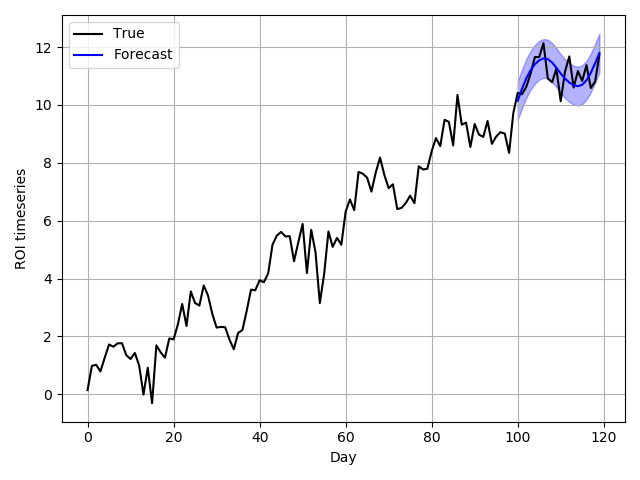
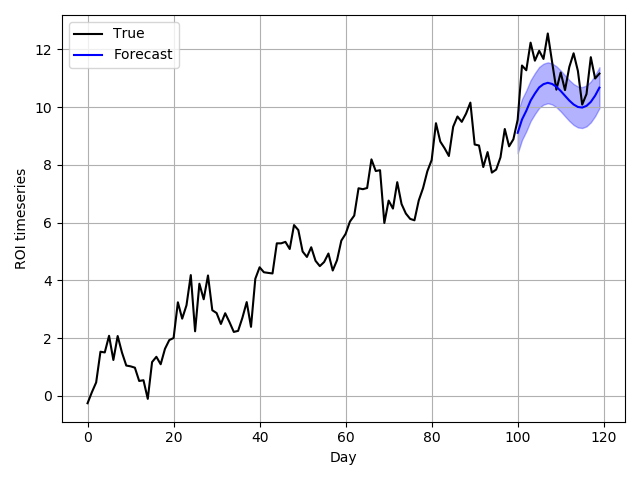
more work added to auto parameter greedy selector. Almost done

Changed region(s): [[0.0625, 0.0625, 0.9688, 0.8438], [0.0625, 0.3125, 0.0938, 0.375], [0.0625, 0.0938, 0.0938, 0.125]]

diff --git a/divinity/__init__.py b/divinity/__init__.py
@@ -251,9 +251,11 @@ class divinity:
                                                                      gcv_mode=None,
                                                                      store_cv_values=False),
                  residual_model = arima_model.ARIMA,
+                 optimise_trend_season_features = True,
                  residual_model_kwargs = {'order':(2,0,2),'exog':None},
                  residual_model_fit_kwargs = {'trend':'nc', 'disp':0}):
         self.features = None
+        self.input_features = None
         self._Ntot = None
         self._N = None
         self._chosen_features = None
@@ -268,27 +270,30 @@ class divinity:
         required forecast
         :return:
         '''
-        seasonality = gen_season(N, periods=self.seasonal_periods, sine_amplitudes=None, cosine_amplitudes=None)
-        trend = gen_trend(N, coef=self.trend_order, amplitudes=None)
-        self.features = pd.concat([trend['features'], seasonality['features']], axis=1)
+        #seasonality = gen_season(N, periods=self.seasonal_periods, sine_amplitudes=None, cosine_amplitudes=None)
+        #trend = gen_trend(N, coef=self.trend_order, amplitudes=None)
+        #self.features = pd.concat([trend['features'], seasonality['features']], axis=1)
+        trend_seasonality = gen_fake(N, max(self.trend_order),
+                 trend_amplitudes=None,
+                 seasonal_periods = self.seasonal_periods,
+                 seasonal_amplitudes_sine = None,
+                 seasonal_amplitudes_cosine = None,
+                 normalize='0to1')
+        self.features = trend_seasonality['features']
+        self.input_features = self.features.copy()
 
-    def _auto_feature_select(self,X, y, training_fraction = 0.8, model = sklearn.linear_model.LinearRegression(fit_intercept=False)):
+    def _auto_feature_select(self, features, y, training_fraction = 0.8, model = sklearn.linear_model.LinearRegression(fit_intercept=False)):
         '''
         use the above class to automate feature selection for trend and seasonal components
         :return:
         '''
         N = len(y)
         Ntest = int(training_fraction*N)
-        X_train = X[:Ntest,:]
-        y_train = y[:Ntest]
-        X_test = X[Ntest:,:]
-        y_test = y[Ntest:]
-        features = self.features
         trend_groups = [[f] for f in features.columns if 'trend order' in f]
         greedy_select_trend = greedy_select(features.iloc[:Ntest, :],
-                                               y_test[:Ntest],
+                                               y[:Ntest],
                                                features.iloc[Ntest:, :],
-                                               y_test[Ntest:],
+                                               y[Ntest:],
                                                model, feature_groups=trend_groups)
         greedy_results_trend = greedy_select_trend.fit()
 
@@ -296,9 +301,9 @@ class divinity:
         seasonal_features = [f for f in features.columns if 'P=' in f]
         trend_seasonality_groups = group_seasonal_features(seasonal_features)
         greedy_select_trend_seasonal = greedy_select(features.iloc[:Ntest, :],
-                                                        y_test[:Ntest],
+                                                        y[:Ntest],
                                                         features.iloc[Ntest:, :],
-                                                        y_test[Ntest:],
+                                                        y[Ntest:],
                                                         model, feature_groups=trend_seasonality_groups,
                                                         features_compulsory=greedy_results_trend['chosen_features'])
         greedy_results_trend_seasonal = greedy_select_trend_seasonal.fit()
@@ -319,6 +324,9 @@ class divinity:
             self._Ntot = self._N + self.forecast_length
         if self.features is None:
             self._prep_features(self._Ntot)
+        if self.optimise_trend_season_features is True:
+            self._auto_feature_select(self.features[:self._N],y)
+            self.features = self.features[self._chosen_features]
         self.trend_seasonal_model.fit(self.features[:self._N],y)
 
         #compute the model residuals to pass on
